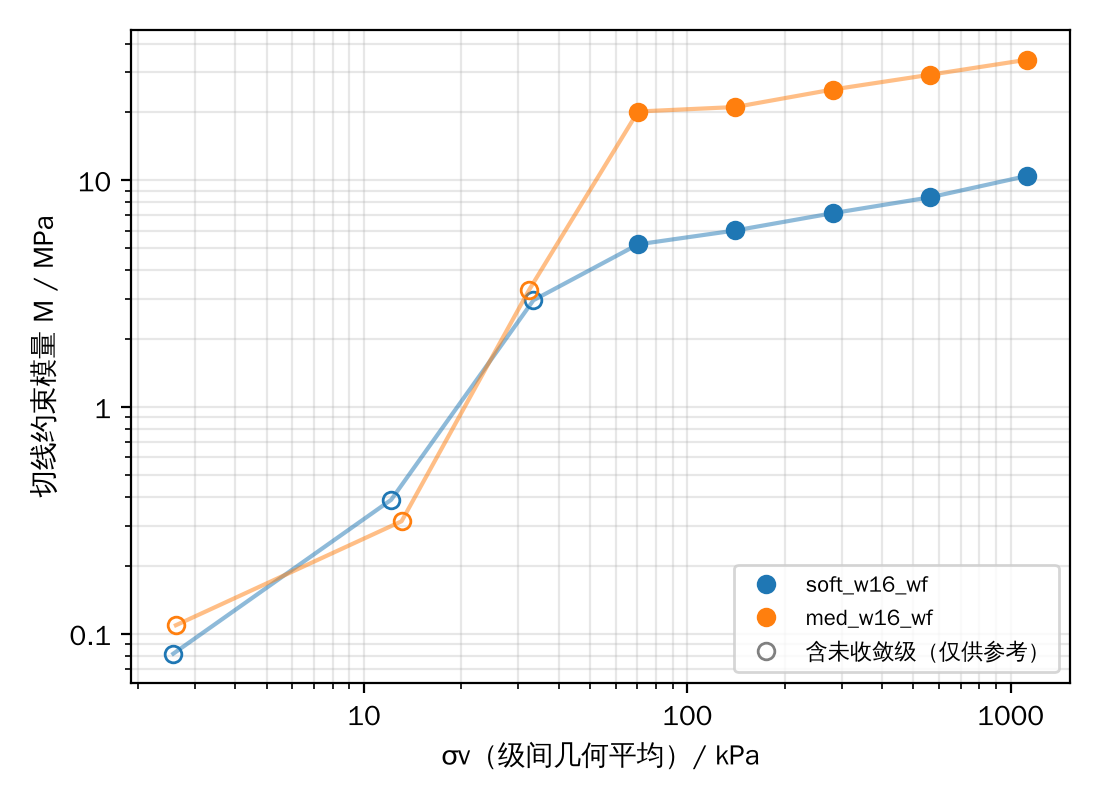
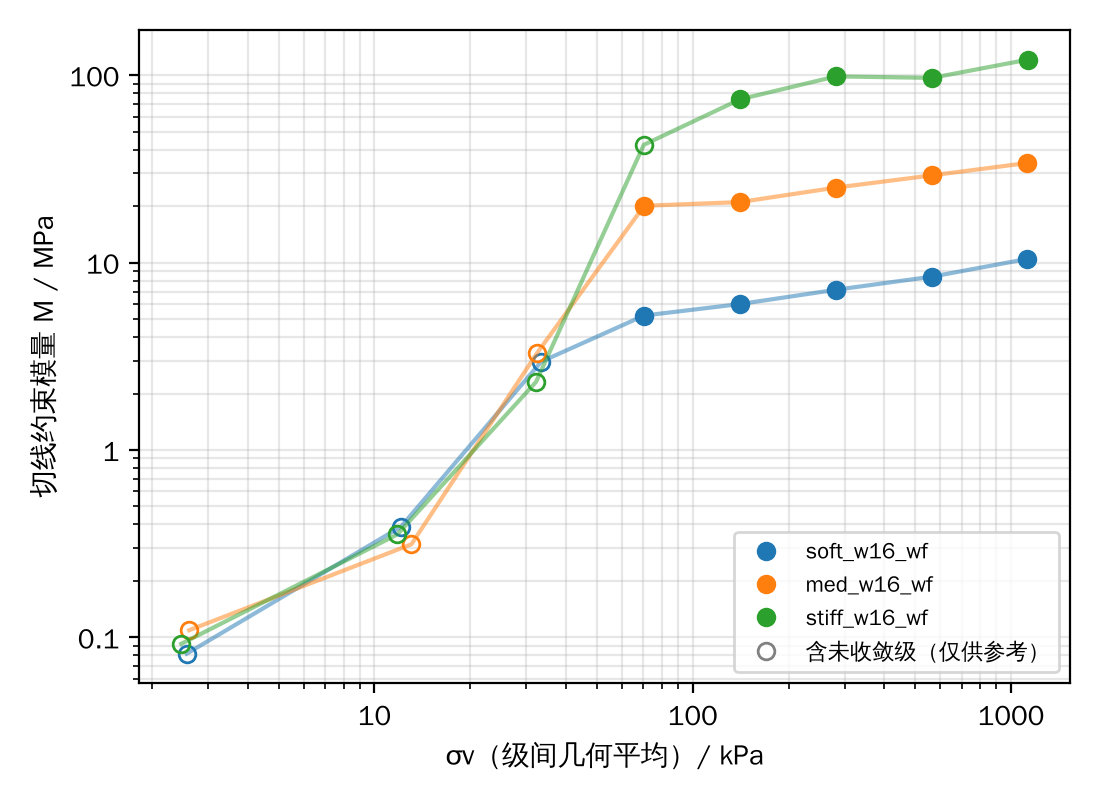
Add stiff oedometer results and data check report
All three cushions analysed: Es1-2 = 6.0 / 21.0 / 74.4 MPa
(soft/med/stiff), Es1-2 ~ E_c^0.78. Report documents convergence,
side-wall friction check, unreliable low-stress stages and caveats.

Claude-Session: https://claude.ai/code/session_01Jtideav3EGeCmAtUHrEa6Y

diff --git a/oedo_results/post/检查报告.md b/oedo_results/post/检查报告.md
@@ -1,0 +1,45 @@
+# 垫层侧限压缩试验：数据检查报告
+
+数据：`oedo_{soft,med,stiff}_w16_wf.txt` 和 `oedo_log.txt`（PFC 5.00.25，2026-10-08 至 10-09）。
+计算：`oedo_analysis/oedo_post.py` 从原始的 σv、H、σh 独立复算，没有用 PFC 自己算好的增量表。
+
+## 1. 数据完整性
+
+| 检查项 | soft | med | stiff |
+|---|---|---|---|
+| txt 与 log 逐级一致（σ_plate、H、cycles、hitmax） | ✓ | ✓ | ✓ |
+| 反算 E_c（全部颗粒间接触，min = max） | 20 MPa | 100 MPa | 500 MPa |
+| kratio / fric | 1.5 / 0.3 | 1.5 / 0.3 | 1.5 / 0.3 |
+| 颗粒数 / 床重 W | 11520 / 10498.6 N | 同左 | 同左 |
+| 首个收敛级（hitmax = 0） | 50 kPa | 50 kPa | **100 kPa** |
+| 收敛级 aratio < 1e-4，应力误差 < 0.5% | ✓ | ✓ | ✓（aratio 均为 9.97–9.99e-5，刚好过线） |
+
+**侧壁无摩擦验证**：底板应力减压板应力，收敛级都在 3.9–4.1 kPa，等于自重压力 W/A = 4.10 kPa，说明侧壁没有分担竖向荷载。只有卸载的第 10 级，soft 偏高到 5.3 kPa、med 到 4.8 kPa，约为 σv 的 0.3%，在 aratio 容差范围内。
+
+## 2. 主要结果（100–200 kPa）
+
+| 垫层 | E_c | e(100) | a1-2 / MPa⁻¹ | **Es1-2 / MPa** | K0 | ν | E / MPa | M_ur / MPa |
+|---|---|---|---|---|---|---|---|---|
+| soft | 20 MPa | 0.712 | 0.285 | **6.0** | 0.49 | 0.33 | 4.1 | 9.7 |
+| med | 100 MPa | 0.738 | 0.083 | **21.0** | 0.56 | 0.36 | 12.7 | 36.7 |
+| stiff | 500 MPa | 0.746 | 0.023 | **74.4** | 0.60 | 0.38 | 40.6 | 153 |
+
+- 复算的 Es1-2 与 PFC 输出差别不到 0.5%，(1+e1)/a1-2 自检也一致。
+- **标度关系**：Es1-2 ∝ E_c^0.78，soft→med 和 med→stiff 两段的指数分别是 0.778 和 0.785，几乎相同。Es/E_c 依次为 0.30、0.21、0.15。颗粒模量提高 5 倍，Es1-2 只提高约 3.5 倍。
+- **GB 50007 压缩性分级**：soft 属中压缩性（0.1 ≤ a1-2 < 0.5），med、stiff 属低压缩性（a1-2 < 0.1）。
+- **M_ur/Es1-2**：soft 1.6，med 1.7，stiff 2.1。
+
+## 3. 使用时的注意事项
+
+1. **50 kPa 以下不能当材料参数**：三个垫层的第 1–3 级都是跑满 20 万步截停的（`hitmax`），压板以 0.03 m/s 的限速下行。med 第 1 级压板正好走了 26.7 mm，等于速度上限 × 20 万步。这段数据混着压板接触突出颗粒的空行程和松散表层的重排。stiff 的第 4 级（50 kPa）也没收敛，所以 stiff 的 50→100 kPa 增量（M = 42.5 MPa）同样不可用。
+2. **低应力段的压缩基本与 E_c 无关**：从约 1 kPa 到 50 kPa，三者的 e 都从约 0.96 降到约 0.73–0.75，曲线几乎重合，说明这段是颗粒重排，不是颗粒本身的变形。
+3. **stiff 的 Es1-2 变形量很小**：100→200 kPa 只压缩 0.376 mm，soft 是 4.56 mm，med 是 1.32 mm。stiff 的 M 在 400→800 kPa（96.7 MPa）比 200→400 kPa（98.5 MPa）还略低，曲线不单调，说明逐级 M 有几个百分点的数值噪声。建议把 stiff 的 Es1-2 按 74 MPa（±5% 量级）引用。这个误差是估计，没有做重复试验。
+4. **墙的柔度可以忽略**：墙接触刚度 kn = π·r·5e9，r ≈ 20.4 mm 由颗粒体积反推。100→200 kPa 时底板接触的附加压入量约 0.5 µm，相对 stiff 的 376 µm 约 0.1%。
+5. **soft 在高应力下颗粒重叠量过大**：1600 kPa 时 soft 颗粒的接触重叠约为半径的 20%（med 约 4%，stiff 约 0.8%），线性接触模型已明显超出适用范围。soft 在 800–1600 kPa 的数据，包括 e = 0.44，只能定性使用。100–200 kPa 时重叠约 2%，没有问题。
+
+## 4. 文件
+
+- `summary.md` / `summary.csv`：汇总表
+- `stages_<tag>.csv`：逐级数据，`reliable = 0` 表示该增量含未收敛级
+- `oedo_M_sigma.png`：切线约束模量 M–σv（空心点为未收敛级）
+- `oedo_e_logp.png`：e–lg σv 压缩与回弹曲线

diff --git a/oedo_results/post/summary.md b/oedo_results/post/summary.md
@@ -2,3 +2,4 @@
 |---|---|---|---|---|---|---|---|---|---|---|
 | soft_w16_wf | 3 | 49.8 | 0.712 | 0.683 | 0.285 | 6.01 | 0.494 | 0.331 | 4.05 | 9.68 |
 | med_w16_wf | 3 | 49.8 | 0.738 | 0.73 | 0.0826 | 21.1 | 0.556 | 0.357 | 12.7 | 36.7 |
+| stiff_w16_wf | 4 | 99.7 | 0.746 | 0.743 | 0.0234 | 74.5 | 0.604 | 0.377 | 40.6 | 153 |
